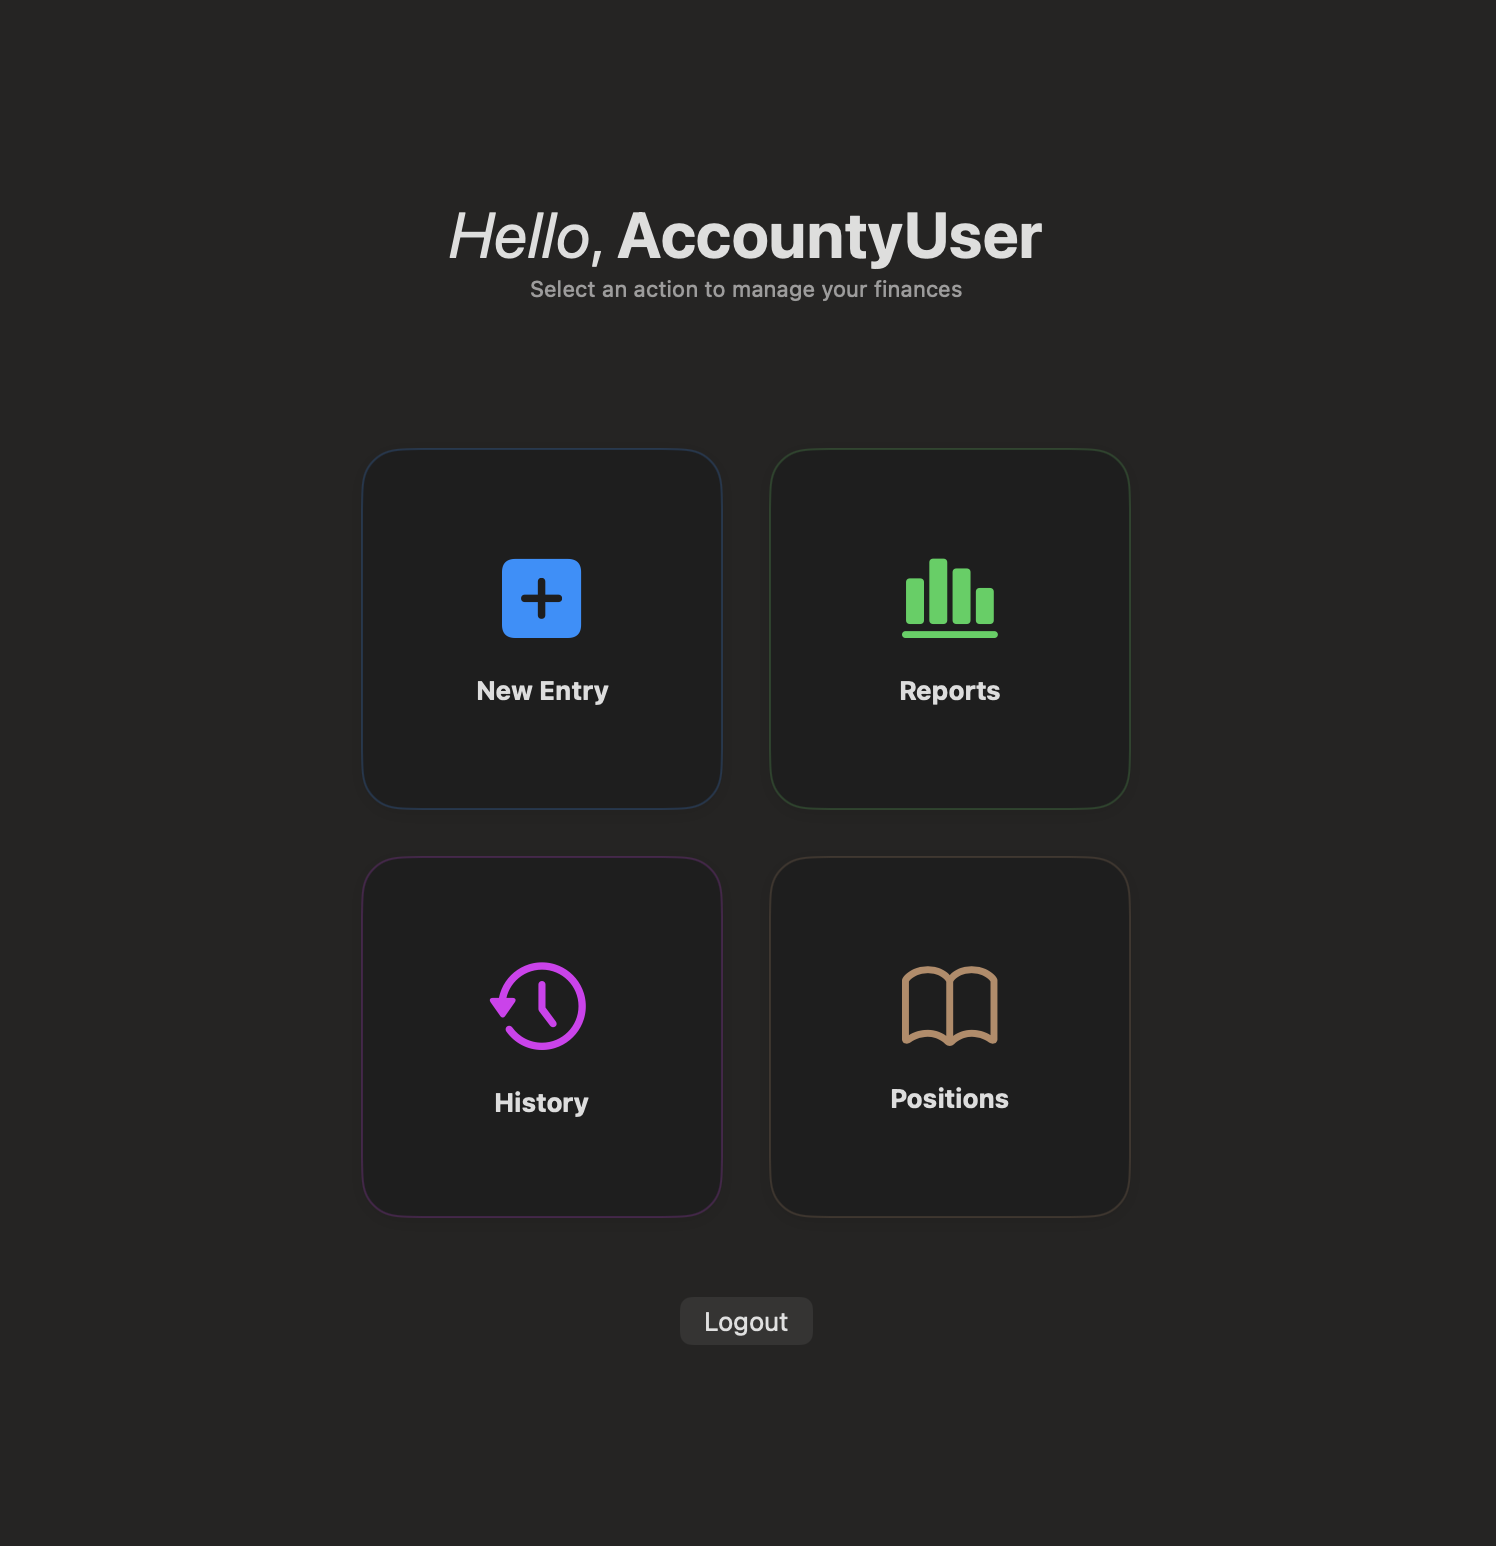
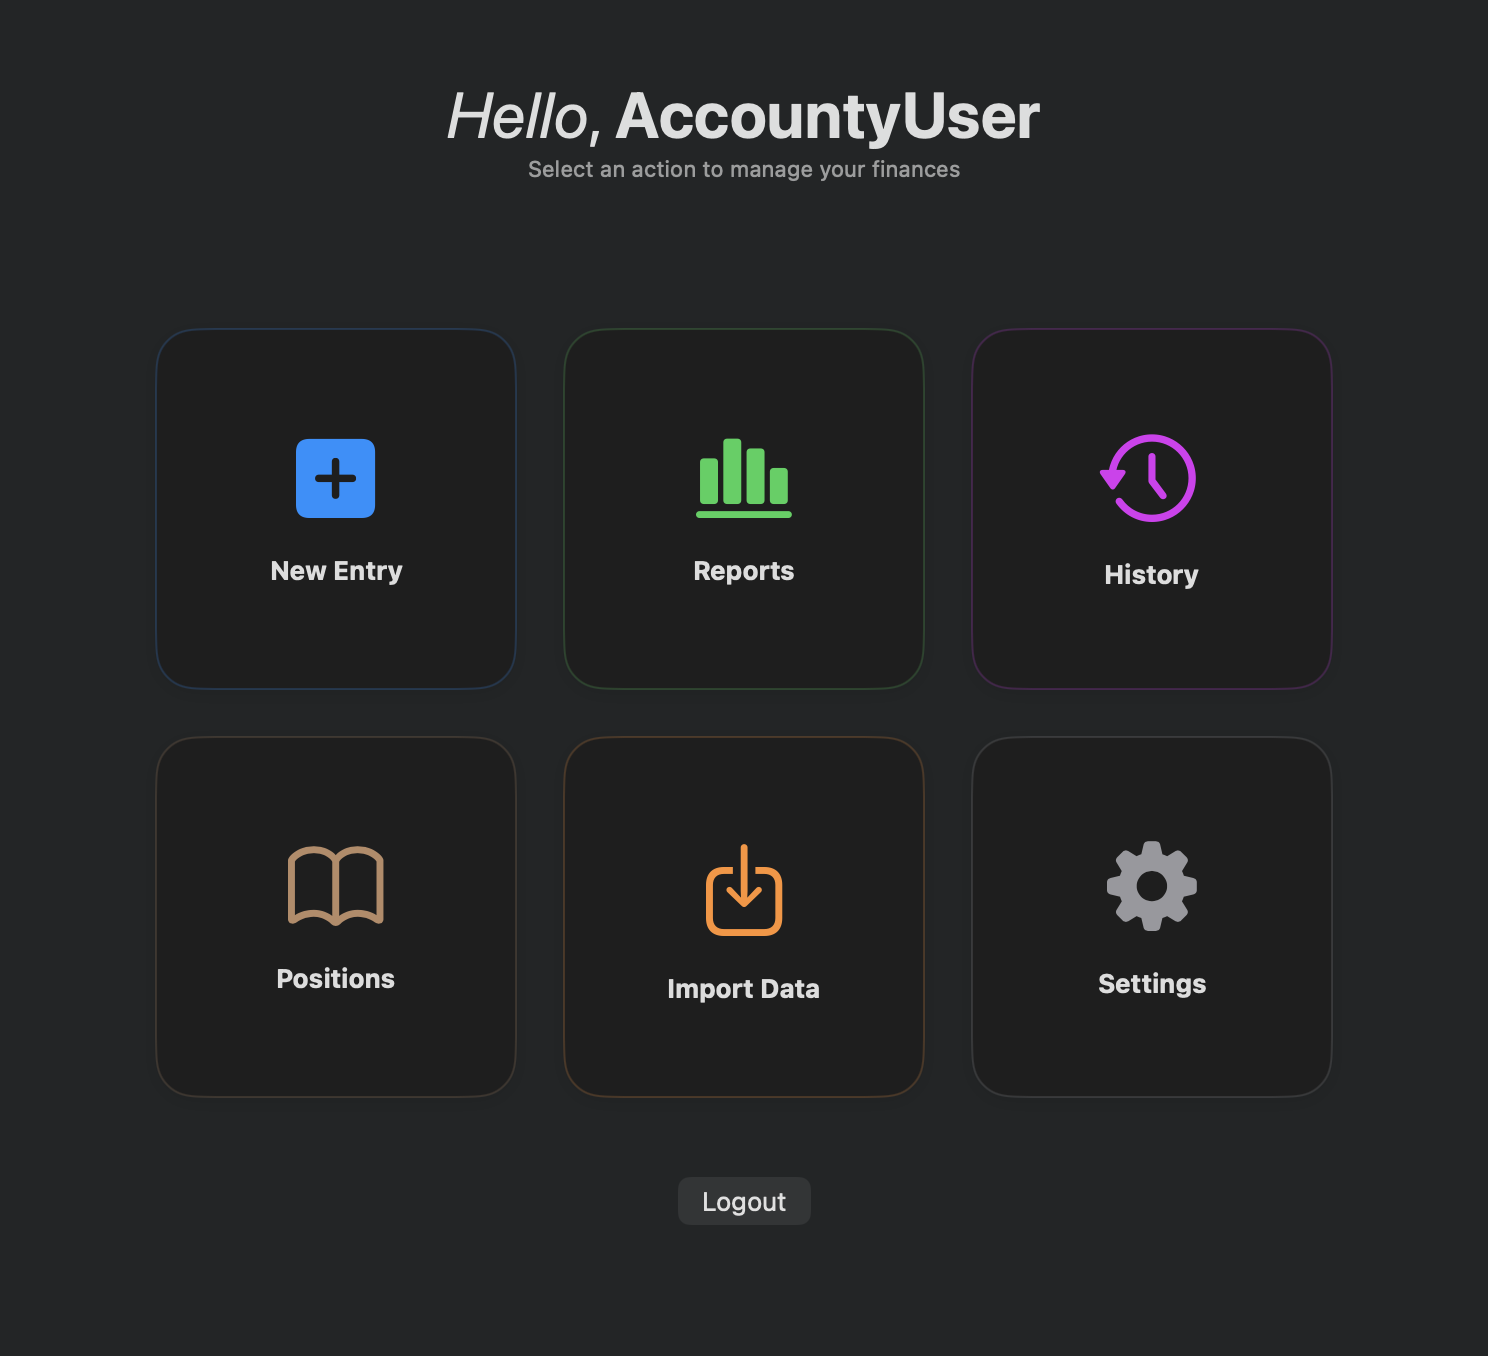
Gave more space in HistoryView to the amount column. Updated README with new main menu.

diff --git a/Accounty/Views/HistoryView.swift b/Accounty/Views/HistoryView.swift
@@ -40,7 +40,7 @@ struct HistoryView: View {
             TableColumn("Amount", value: \.amount) { entry in
                 formatAmount(entry)
             }
-            .width(90)
+            .width(120)
             
             TableColumn("Notes", value: \.notes)
         }

diff --git a/README.md b/README.md
@@ -11,4 +11,6 @@ Accounty allows the user to do the following:
 - Inserting statements in the **New Entry** view, whether they are of the income or the expense type, and categorizing them;
 - Accessing the **Reports** view to see an overview of the month's cashflow;
 - Viewing the **History** of entries;
-- Setting positions to have an overview of the NAV in **Positions**.
+- Setting positions to have an overview of the NAV in **Positions**;
+- **Import Data** from a csv file;
+- Access the **Settings**, which is currently a placeholder.
